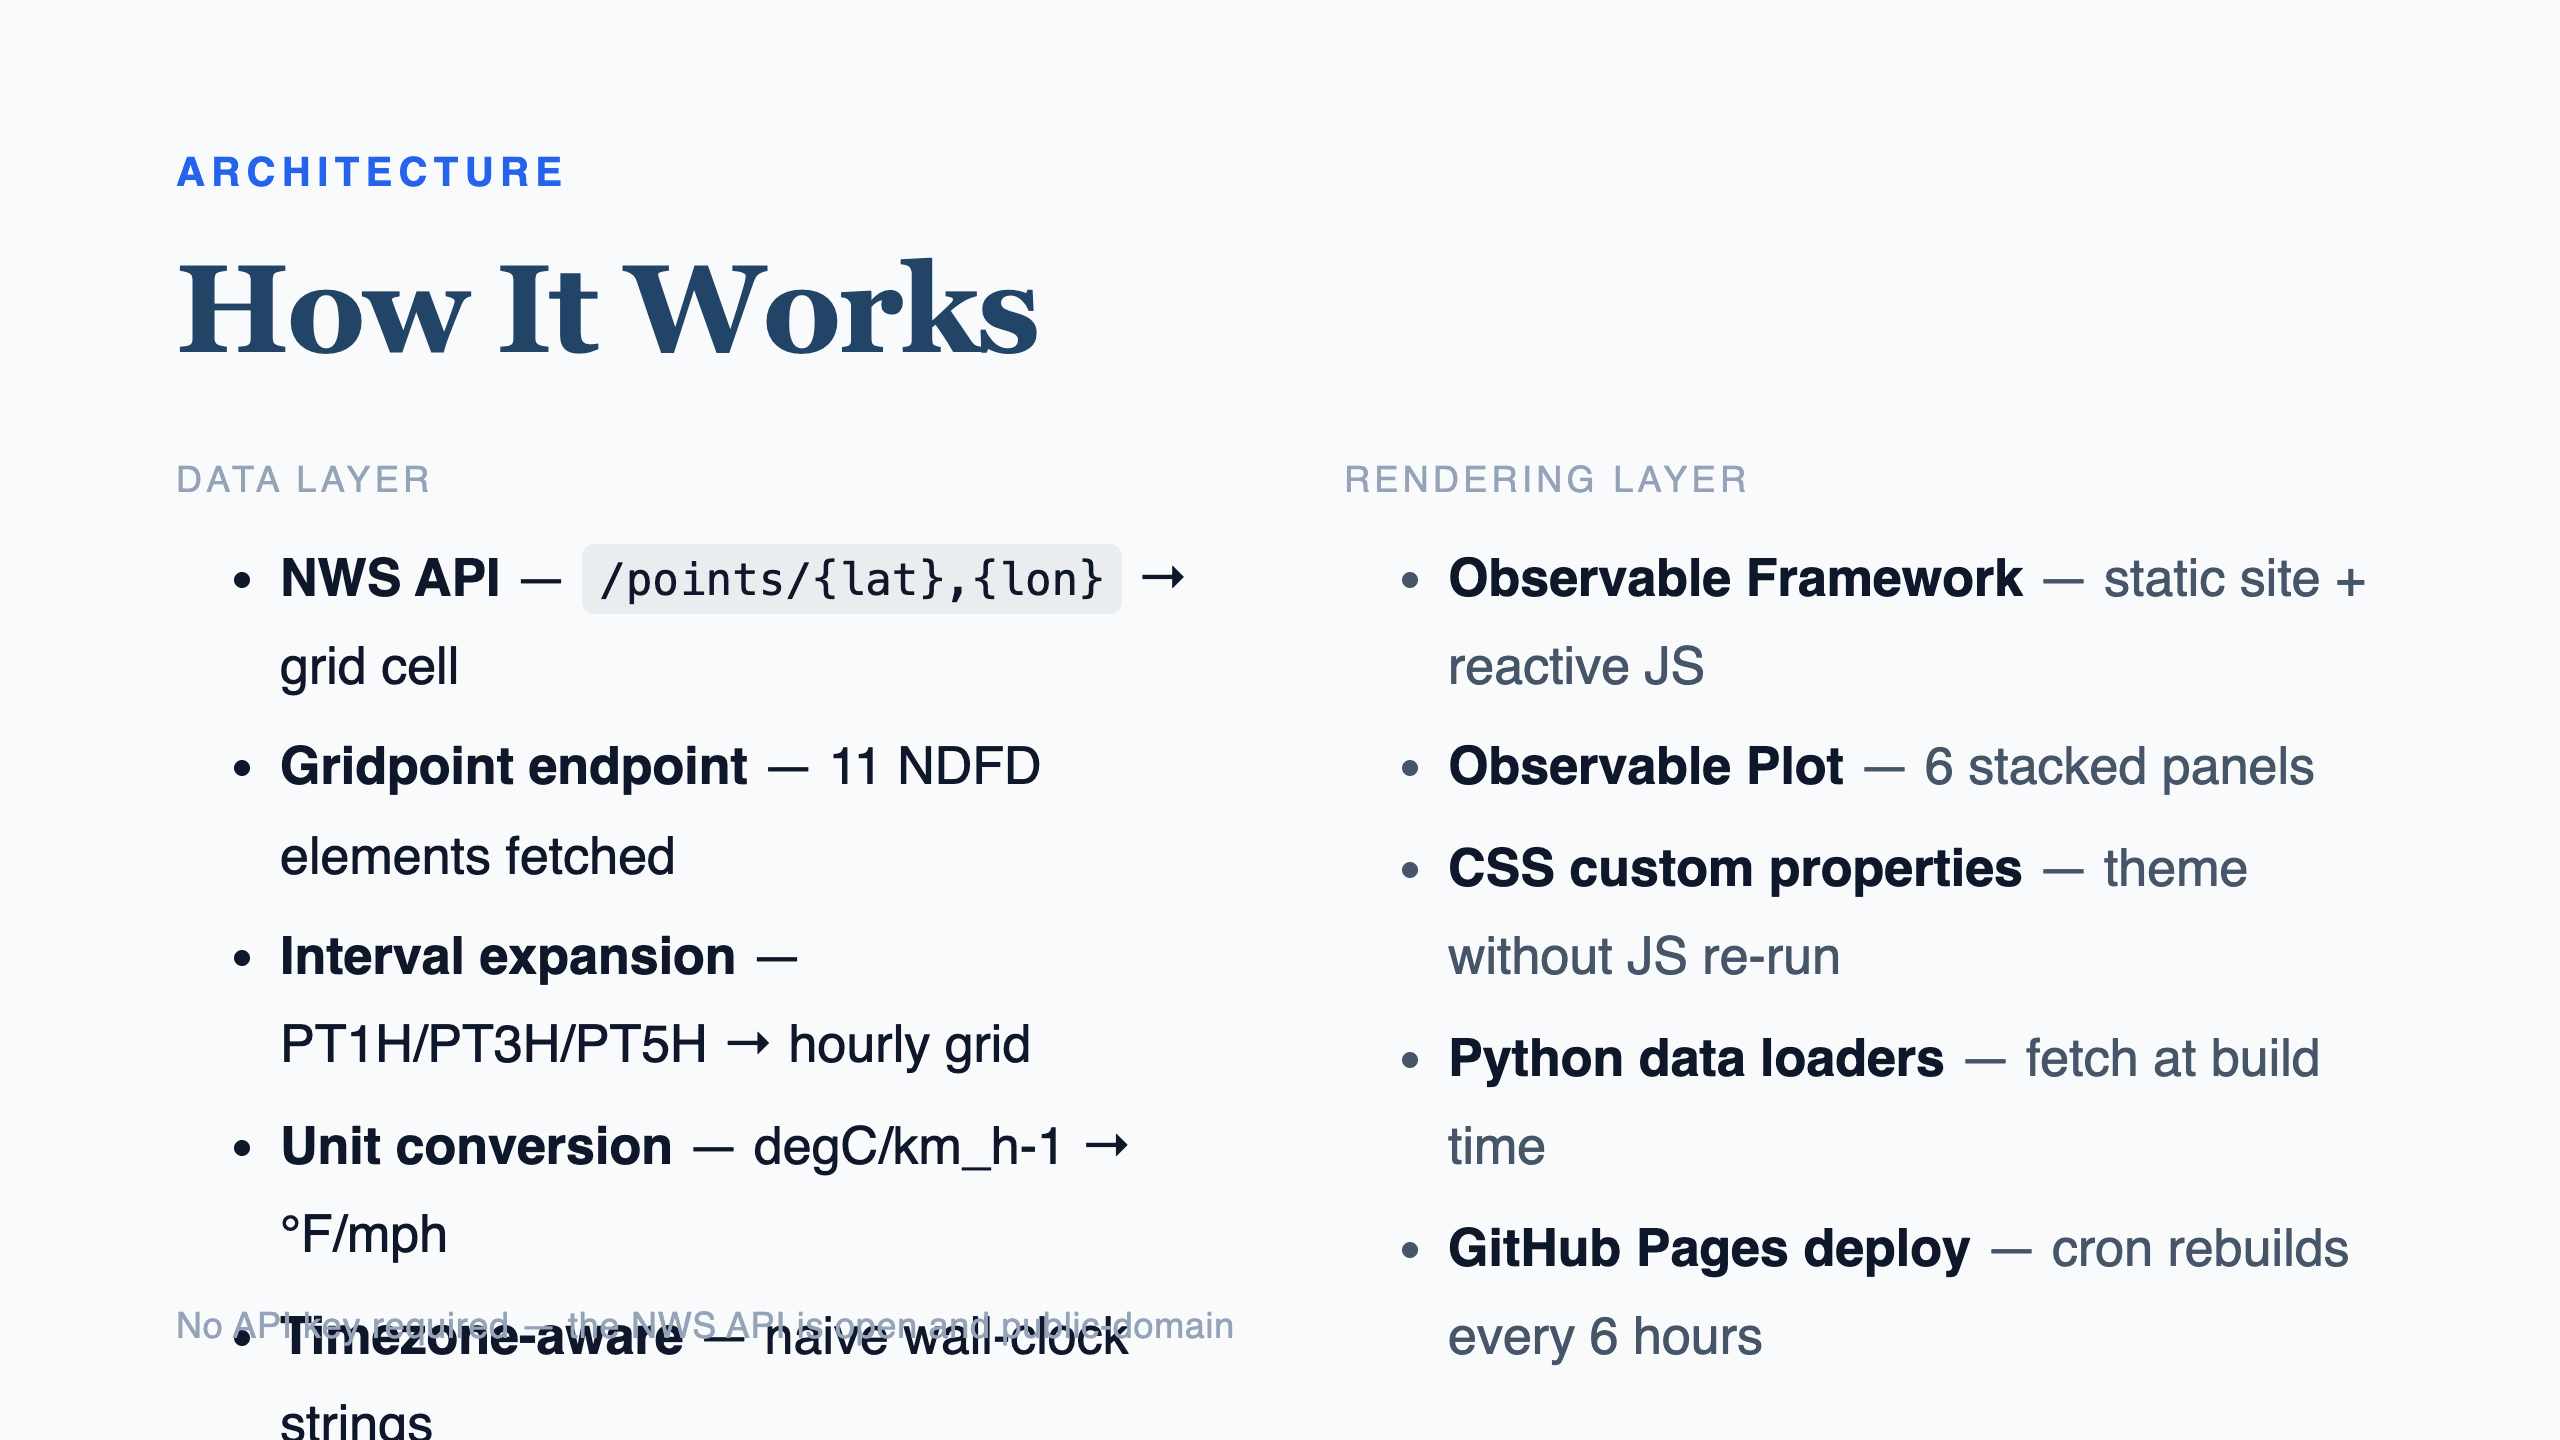
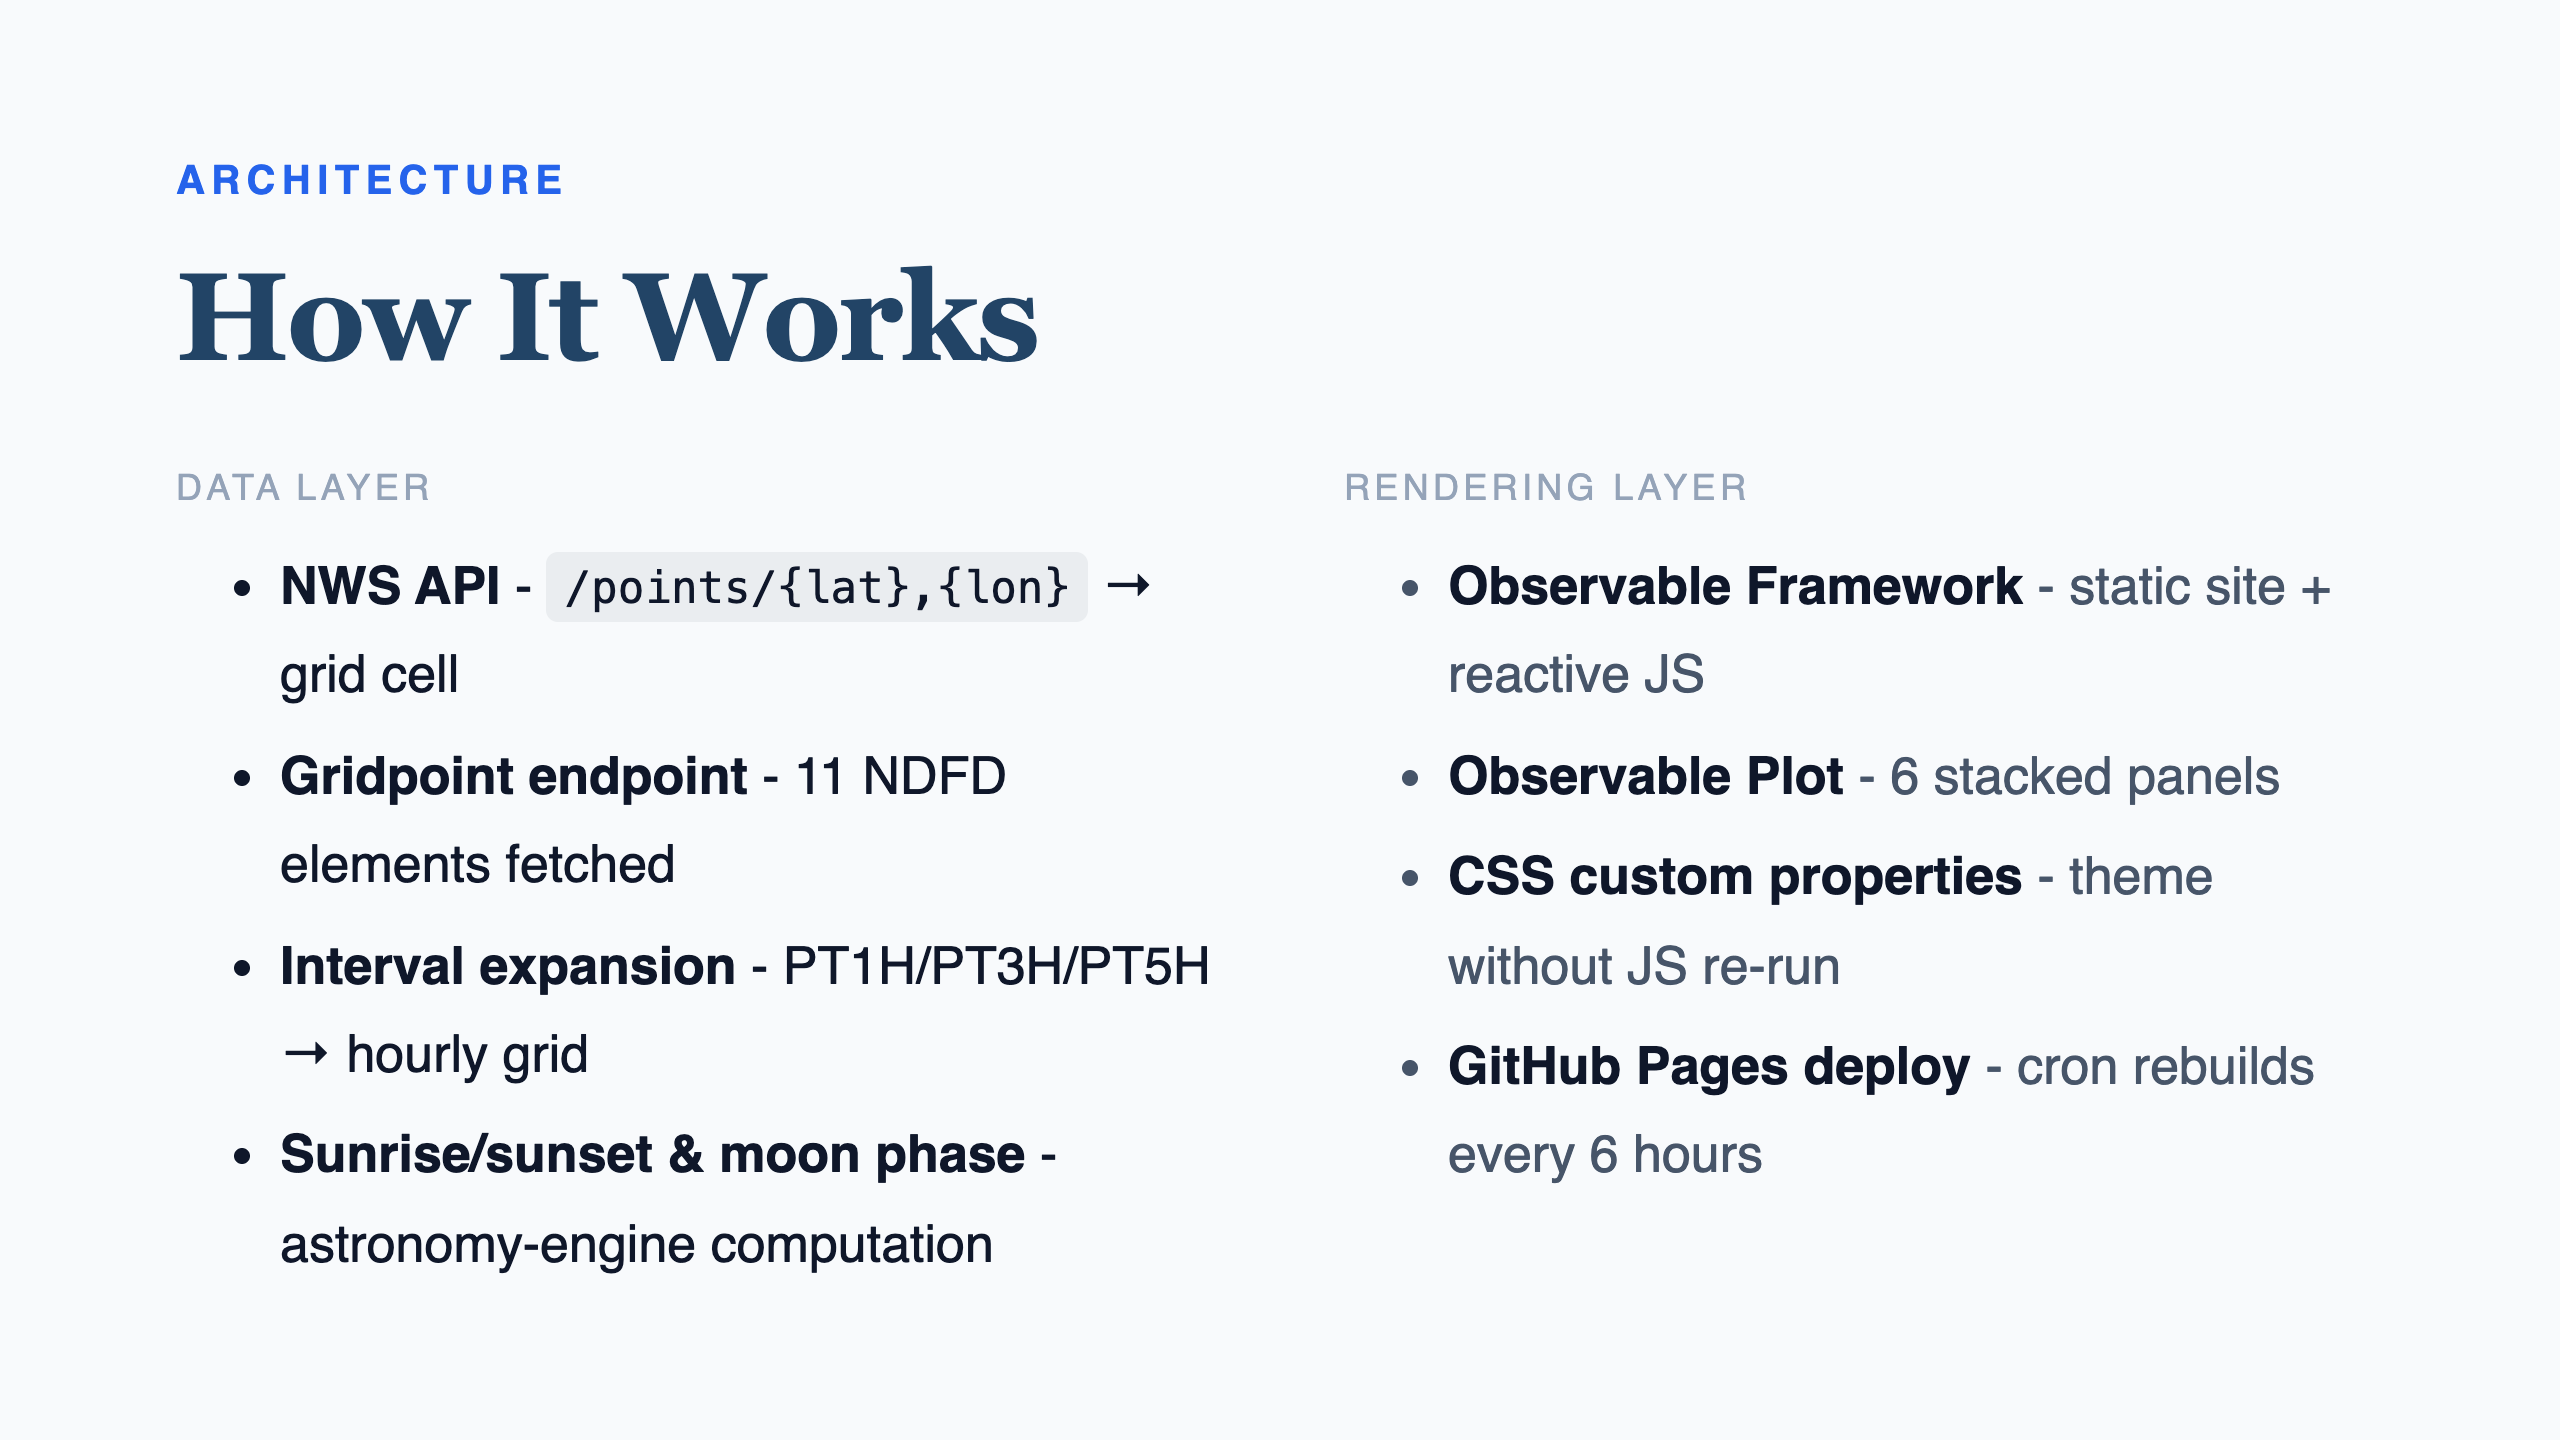
Updates video demo slides

diff --git a/video-demo/deck.md b/video-demo/deck.md
@@ -71,7 +71,7 @@ style: |
 
 <div class="lede">Rebuilding the National Weather Service meteogram as an interactive, modern dashboard using Observable Framework and D3/Observable Plot</div>
 
-<div class="foot">NWS forecast-viz — July 2026</div>
+<div class="foot">NWS forecast-viz - July 2026</div>
 
 ---
 
@@ -79,7 +79,7 @@ style: |
 
 # NWS Graphical Forecast Page
 
-<div class="lede">Server-rendered PNGs, checkbox-driven UI, and a 48-hour fixed view — the NDFD numbers are there, but locked inside images</div>
+<div class="lede">Server-rendered PNGs, checkbox-driven UI, and a 48-hour fixed view - the NDFD numbers are there, but locked inside images</div>
 
 <div class="foot">forecast.weather.gov/MapClick.php</div>
 
@@ -89,42 +89,39 @@ style: |
 
 # From PNGs to Live JSON
 
-<div class="lede">The original page generates server-side PNGs from a CGI script. The reskin calls the same NDFD grid API directly — fetching, expanding interval-based time series, and rendering everything in the browser</div>
+<div class="lede">The original page generates server-side PNGs from a CGI script. The reskin calls the same NDFD grid API directly - fetching, expanding interval-based time series, and rendering everything in the browser</div>
 
-<div class="foot">National Digital Forecast Database — api.weather.gov</div>
+<div class="foot">National Digital Forecast Database - api.weather.gov</div>
 
 ---
 
 <div class="eyebrow">Interactivity</div>
 
-# What the Reskin Adds
+# The Reskin
 
 <div class="cols">
 <div>
-<div class="colhead">New Capabilities</div>
+<div class="colhead">Capabilities</div>
 
-- **Location search** — city, ZIP, or lat/lon
-- **7-day horizon** — not just 48 hours
-- **Crosshair tooltips** — exact values on hover
-- **Day/night bands** — diurnal cycle at a glance
-- **Wind direction barbs** — inline on the wind panel
+- **Location search** - city, ZIP, or lat/lon
+- **Crosshair tooltips** - exact values on hover
+- **Day/night bands** - diurnal cycle at a glance with moon phases
+- **PWA** - save as an app on your phone.
 
 </div>
 <div>
 <div class="colhead">Quality of Life</div>
 
 <ul class="muted">
-<li><strong>Dark mode</strong> — CSS custom properties, no JS</li>
-<li><strong>Time range selector</strong> — 24h / 48h / 7d</li>
+<li><strong>Dark mode</strong> - CSS custom properties, no JS</li>
+<li><strong>Time range selector</strong> - 24h / 48h / 7d, replaces the fixed 48h</li>
 <li><strong>Feels-like shown only where it differs</strong></li>
 <li><strong>Single shared time axis</strong> across all 6 panels</li>
-<li><strong>No page reloads</strong> — reactive data flow</li>
+<li><strong>No page reloads</strong> - reactive data flow</li>
 </ul>
 
 </div>
 </div>
-
-<div class="foot">All panels share one x scale and one set of night bands</div>
 
 ---
 
@@ -136,28 +133,21 @@ style: |
 <div>
 <div class="colhead">Data Layer</div>
 
-- **NWS API** — `/points/{lat},{lon}` → grid cell
-- **Gridpoint endpoint** — 11 NDFD elements fetched
-- **Interval expansion** — PT1H/PT3H/PT5H → hourly grid
-- **Unit conversion** — degC/km_h-1 → °F/mph
-- **Timezone-aware** — naive wall-clock strings
-- **Sunrise/sunset** — NOAA low-precision almanac
+- **NWS API** - `/points/{lat},{lon}` → grid cell
+- **Gridpoint endpoint** - 11 NDFD elements fetched
+- **Interval expansion** - PT1H/PT3H/PT5H → hourly grid
+- **Sunrise/sunset & moon phase** - astronomy-engine computation
 
 </div>
 <div>
 <div class="colhead">Rendering Layer</div>
 
 <ul class="muted">
-<li><strong>Observable Framework</strong> — static site + reactive JS</li>
-<li><strong>Observable Plot</strong> — 6 stacked panels</li>
-<li><strong>CSS custom properties</strong> — theme without JS re-run</li>
-<li><strong>Python data loaders</strong> — fetch at build time</li>
-<li><strong>GitHub Pages deploy</strong> — cron rebuilds every 6 hours</li>
+<li><strong>Observable Framework</strong> - static site + reactive JS</li>
+<li><strong>Observable Plot</strong> - 6 stacked panels</li>
+<li><strong>CSS custom properties</strong> - theme without JS re-run</li>
+<li><strong>GitHub Pages deploy</strong> - cron rebuilds every 6 hours</li>
 </ul>
 
 </div>
 </div>
-
-<div class="foot">No API key required — the NWS API is open and public-domain</div>
-
-
